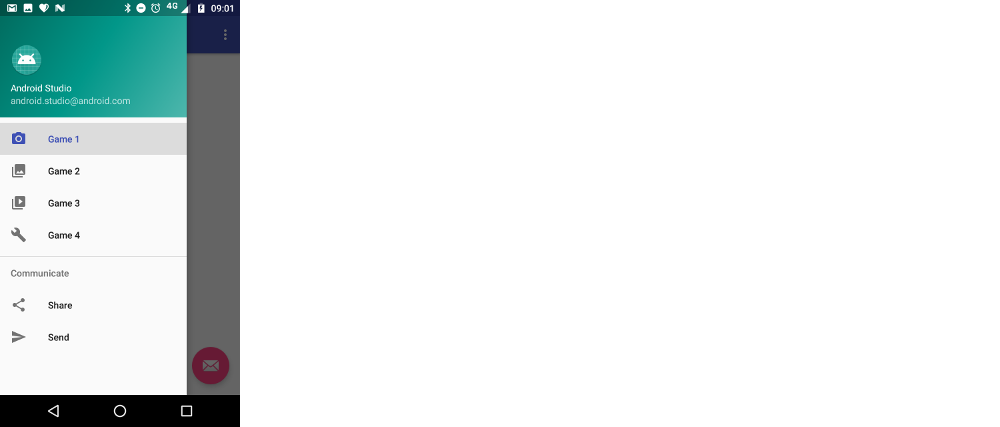
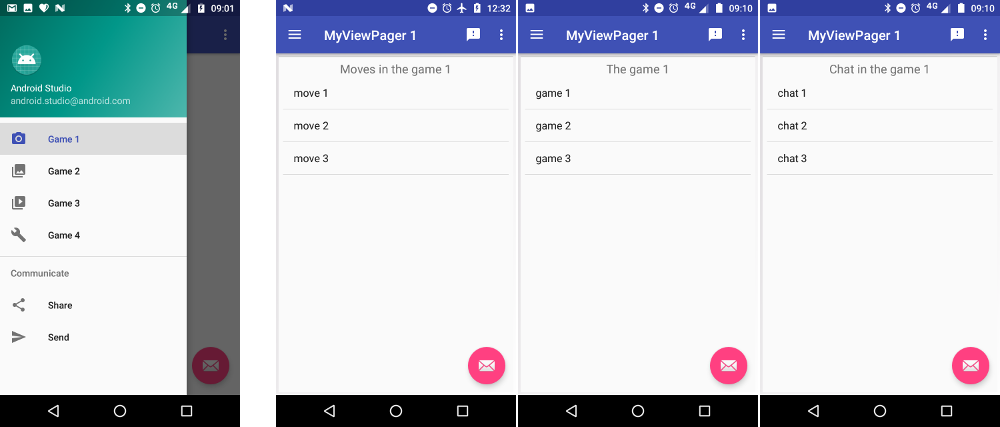
Get rid of custom ViewPager whose purpose was to prevent swiping to the sides

diff --git a/MyViewPager/app/src/main/java/de/afarber/myviewpager/CustomPagerAdapter.java b/MyViewPager/app/src/main/java/de/afarber/myviewpager/CustomPagerAdapter.java
@@ -1,12 +1,9 @@
 package de.afarber.myviewpager;
 
-import android.support.v4.app.Fragment;
 import android.support.v4.app.FragmentManager;
 import android.support.v4.app.FragmentPagerAdapter;
-import android.view.ViewGroup;
 
 public class CustomPagerAdapter extends FragmentPagerAdapter {
-    private Fragment mCurrentFragment;
     private int mGid;
 
     public CustomPagerAdapter(FragmentManager fm, int gid) {
@@ -21,22 +18,10 @@ public class CustomPagerAdapter extends FragmentPagerAdapter {
 
     @Override
     public android.support.v4.app.Fragment getItem(int position) {
-        if (position == 0) {
-            return MovesFragment.newInstance(mGid);
+        switch (position) {
+            case 0: return MovesFragment.newInstance(mGid);
+            case 2: return ChatFragment.newInstance(mGid);
+            default: return GameFragment.newInstance(mGid);
         }
-        if (position == 2) {
-            return ChatFragment.newInstance(mGid);
-        }
-        return GameFragment.newInstance(mGid);
-    }
-
-    @Override
-    public void setPrimaryItem(ViewGroup container, int position, Object object) {
-        super.setPrimaryItem(container, position, object);
-        mCurrentFragment = (Fragment) object;
-    }
-
-    public Fragment getCurrentFragment() {
-        return mCurrentFragment;
     }
 }

diff --git a/MyViewPager/app/src/main/java/de/afarber/myviewpager/PagerFragment.java b/MyViewPager/app/src/main/java/de/afarber/myviewpager/PagerFragment.java
@@ -51,10 +51,8 @@ public class PagerFragment extends Fragment  {
 	@Override
     public void onViewCreated(@NonNull View view, Bundle savedInstanceState) {
         setHasOptionsMenu(true);
-
         int gid = getArguments().getInt(GID);
         getActivity().setTitle(getString(R.string.app_name) + " " + gid);
-
         mAdapter = new CustomPagerAdapter(getActivity().getSupportFragmentManager(), gid);
         mPager = view.findViewById(R.id.pager);
         mPager.setAdapter(mAdapter);
@@ -70,7 +68,6 @@ public class PagerFragment extends Fragment  {
     @Override
     public boolean onOptionsItemSelected(MenuItem item) {
         int id = item.getItemId();
-
         if (id == R.id.item_chat) {
             if (mPager.getCurrentItem() == 1) {
                 mPager.setCurrentItem(2);

diff --git a/MyViewPager/app/src/main/java/de/afarber/myviewpager/MainActivity.java b/MyViewPager/app/src/main/java/de/afarber/myviewpager/MainActivity.java
@@ -3,7 +3,6 @@ package de.afarber.myviewpager;
 import android.os.Bundle;
 import android.support.design.widget.FloatingActionButton;
 import android.support.design.widget.Snackbar;
-import android.util.Log;
 import android.view.View;
 import android.support.design.widget.NavigationView;
 import android.support.v4.view.GravityCompat;
@@ -15,7 +14,8 @@ import android.view.Menu;
 import android.view.MenuItem;
 
 public class MainActivity extends AppCompatActivity
-        implements PagerFragment.PagerListener, NavigationView.OnNavigationItemSelectedListener {
+        implements PagerFragment.PagerListener,
+        NavigationView.OnNavigationItemSelectedListener {
 
     public final static String GID = "gid";
 
